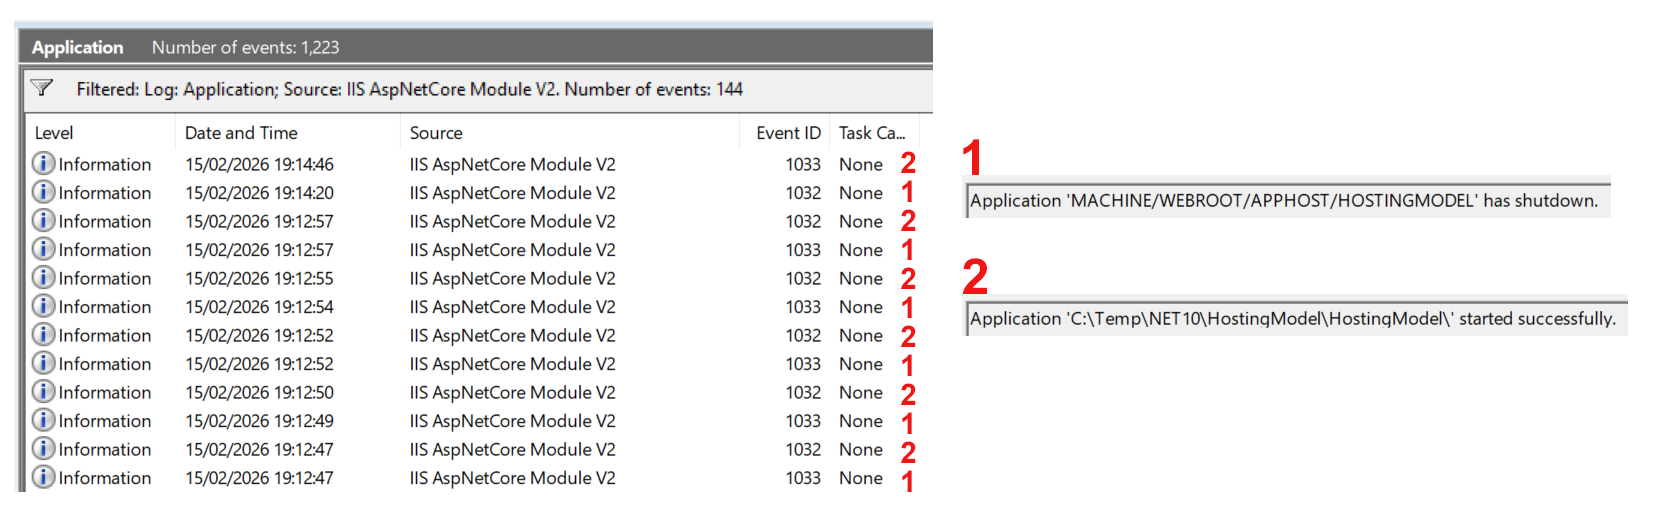
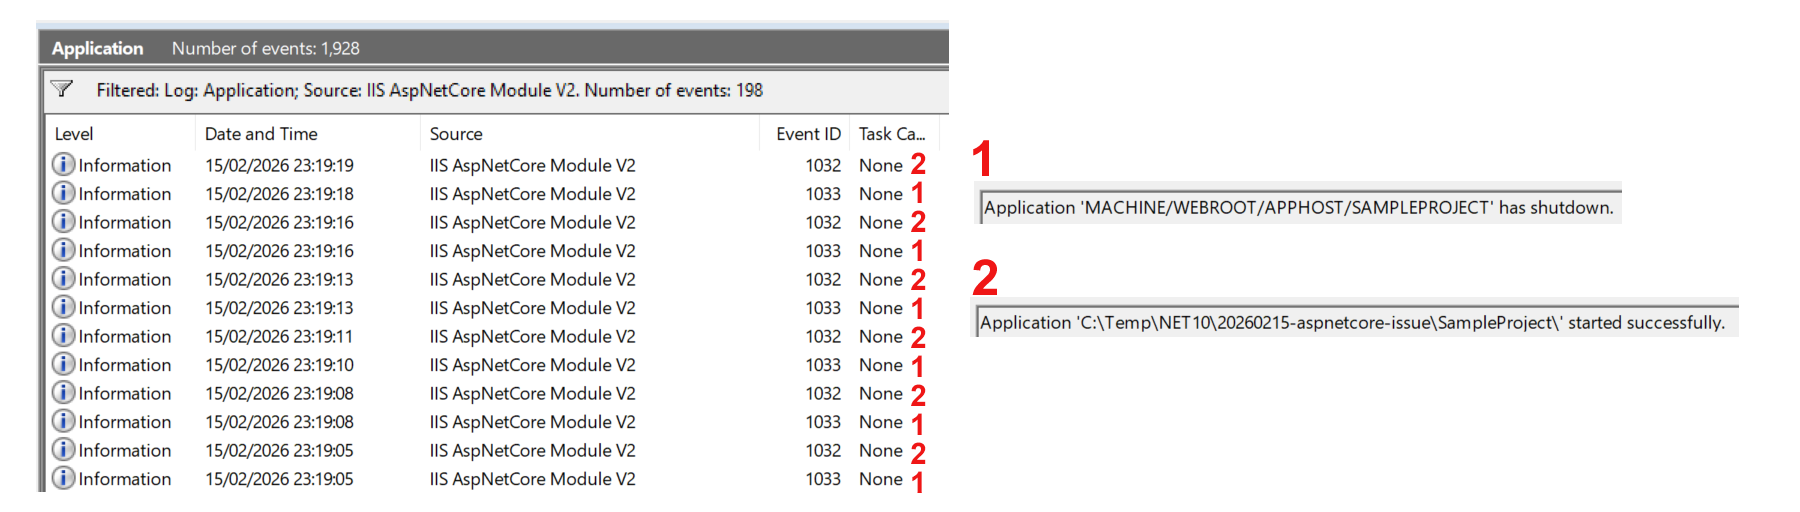
Added README.md with reproduction steps and checked.

Changed region(s): [[0.0, 0.0312, 0.9867, 0.9688]]

diff --git a/SampleProject/Controllers/DefaultController.cs b/SampleProject/Controllers/DefaultController.cs
@@ -1,13 +1,13 @@
 using Microsoft.AspNetCore.Mvc;
 
-namespace HostingModel.Controllers
+namespace SampleProject.Controllers
 {
     public class DefaultController : Controller
     {
         [Route("/")]
         public ActionResult<string> Default()
         {
-            return "Test";
+            return "Hello World!";
         }
     }
 }

diff --git a/SampleProject/Startup.cs b/SampleProject/Startup.cs
@@ -4,7 +4,7 @@ using Microsoft.Extensions.DependencyInjection;
 using Microsoft.Extensions.Logging;
 using System;
 
-namespace HostingModel
+namespace SampleProject
 {
     public class Startup
     {

diff --git a/SampleProject/Program.cs b/SampleProject/Program.cs
@@ -1,7 +1,7 @@
 using Microsoft.AspNetCore.Hosting;
 using Microsoft.Extensions.Hosting;
 
-namespace HostingModel
+namespace SampleProject
 {
     public class Program
     {

diff --git a/README.md b/README.md
@@ -1,0 +1,58 @@
+# Issue Reproduction
+
+- Pull repository
+
+- Visual Studio
+  - Open `SampleProject.slnx`
+  - Build Solution
+
+- Windows
+  - Add hosts entry; e.g. `127.0.0.1  SampleProject`
+
+- IIS:
+
+  - Application Pools
+    - Add Application Pool
+      - Name: `SampleProject`
+      - .NET CLR version: `No Managed Code`
+      - Managed pipeline mode: `Integrated (Default)`
+      - Start application pool immediately: `False`
+	  - Click OK
+	  - Advanced Settings
+	    - Start Mode: `AlwaysRunning`
+	    - Idle Time-out (minutes): `0`
+		- Click OK
+
+  - Sites
+    - Add Website
+		- Site name: `SampleProject`
+		- Application pool: `SampleProject`
+		- Physical path: `%PATH_TO_REPO%\SampleProject`
+		- Binding
+		  - Type: `http (Default)`
+		  - IP address: `All Unassigned (Default)`
+		  - Port: `80 (Default)`
+		  - Host name: `SampleProject`
+		- Start Website immediately: `False`
+		- Click OK
+        - Advanced Settings
+	      - Preload Enabled: `True`
+		  - Click OK
+		  
+  - Start App Pool `SampleProject`
+  - Start Website `SampleProject`
+  
+- Browser
+  - Navigate to: `http://sampleproject/`
+  - Confirm response: `Hello World!`
+  
+- Windows
+  - Note current time
+  - Shutdown / Restart
+  - Confirm hang state; shutdown never completes
+  - Hard power off and restart
+  - Event Viewer
+    - Windows Logs -> Application 
+	  - Filter Source = `IIS AspNetCore Module V2`
+	  - Check entries for time of Shutdown / Restart
+	  - Confirm App Pool in stop / start loop preventing Windows shutdown
